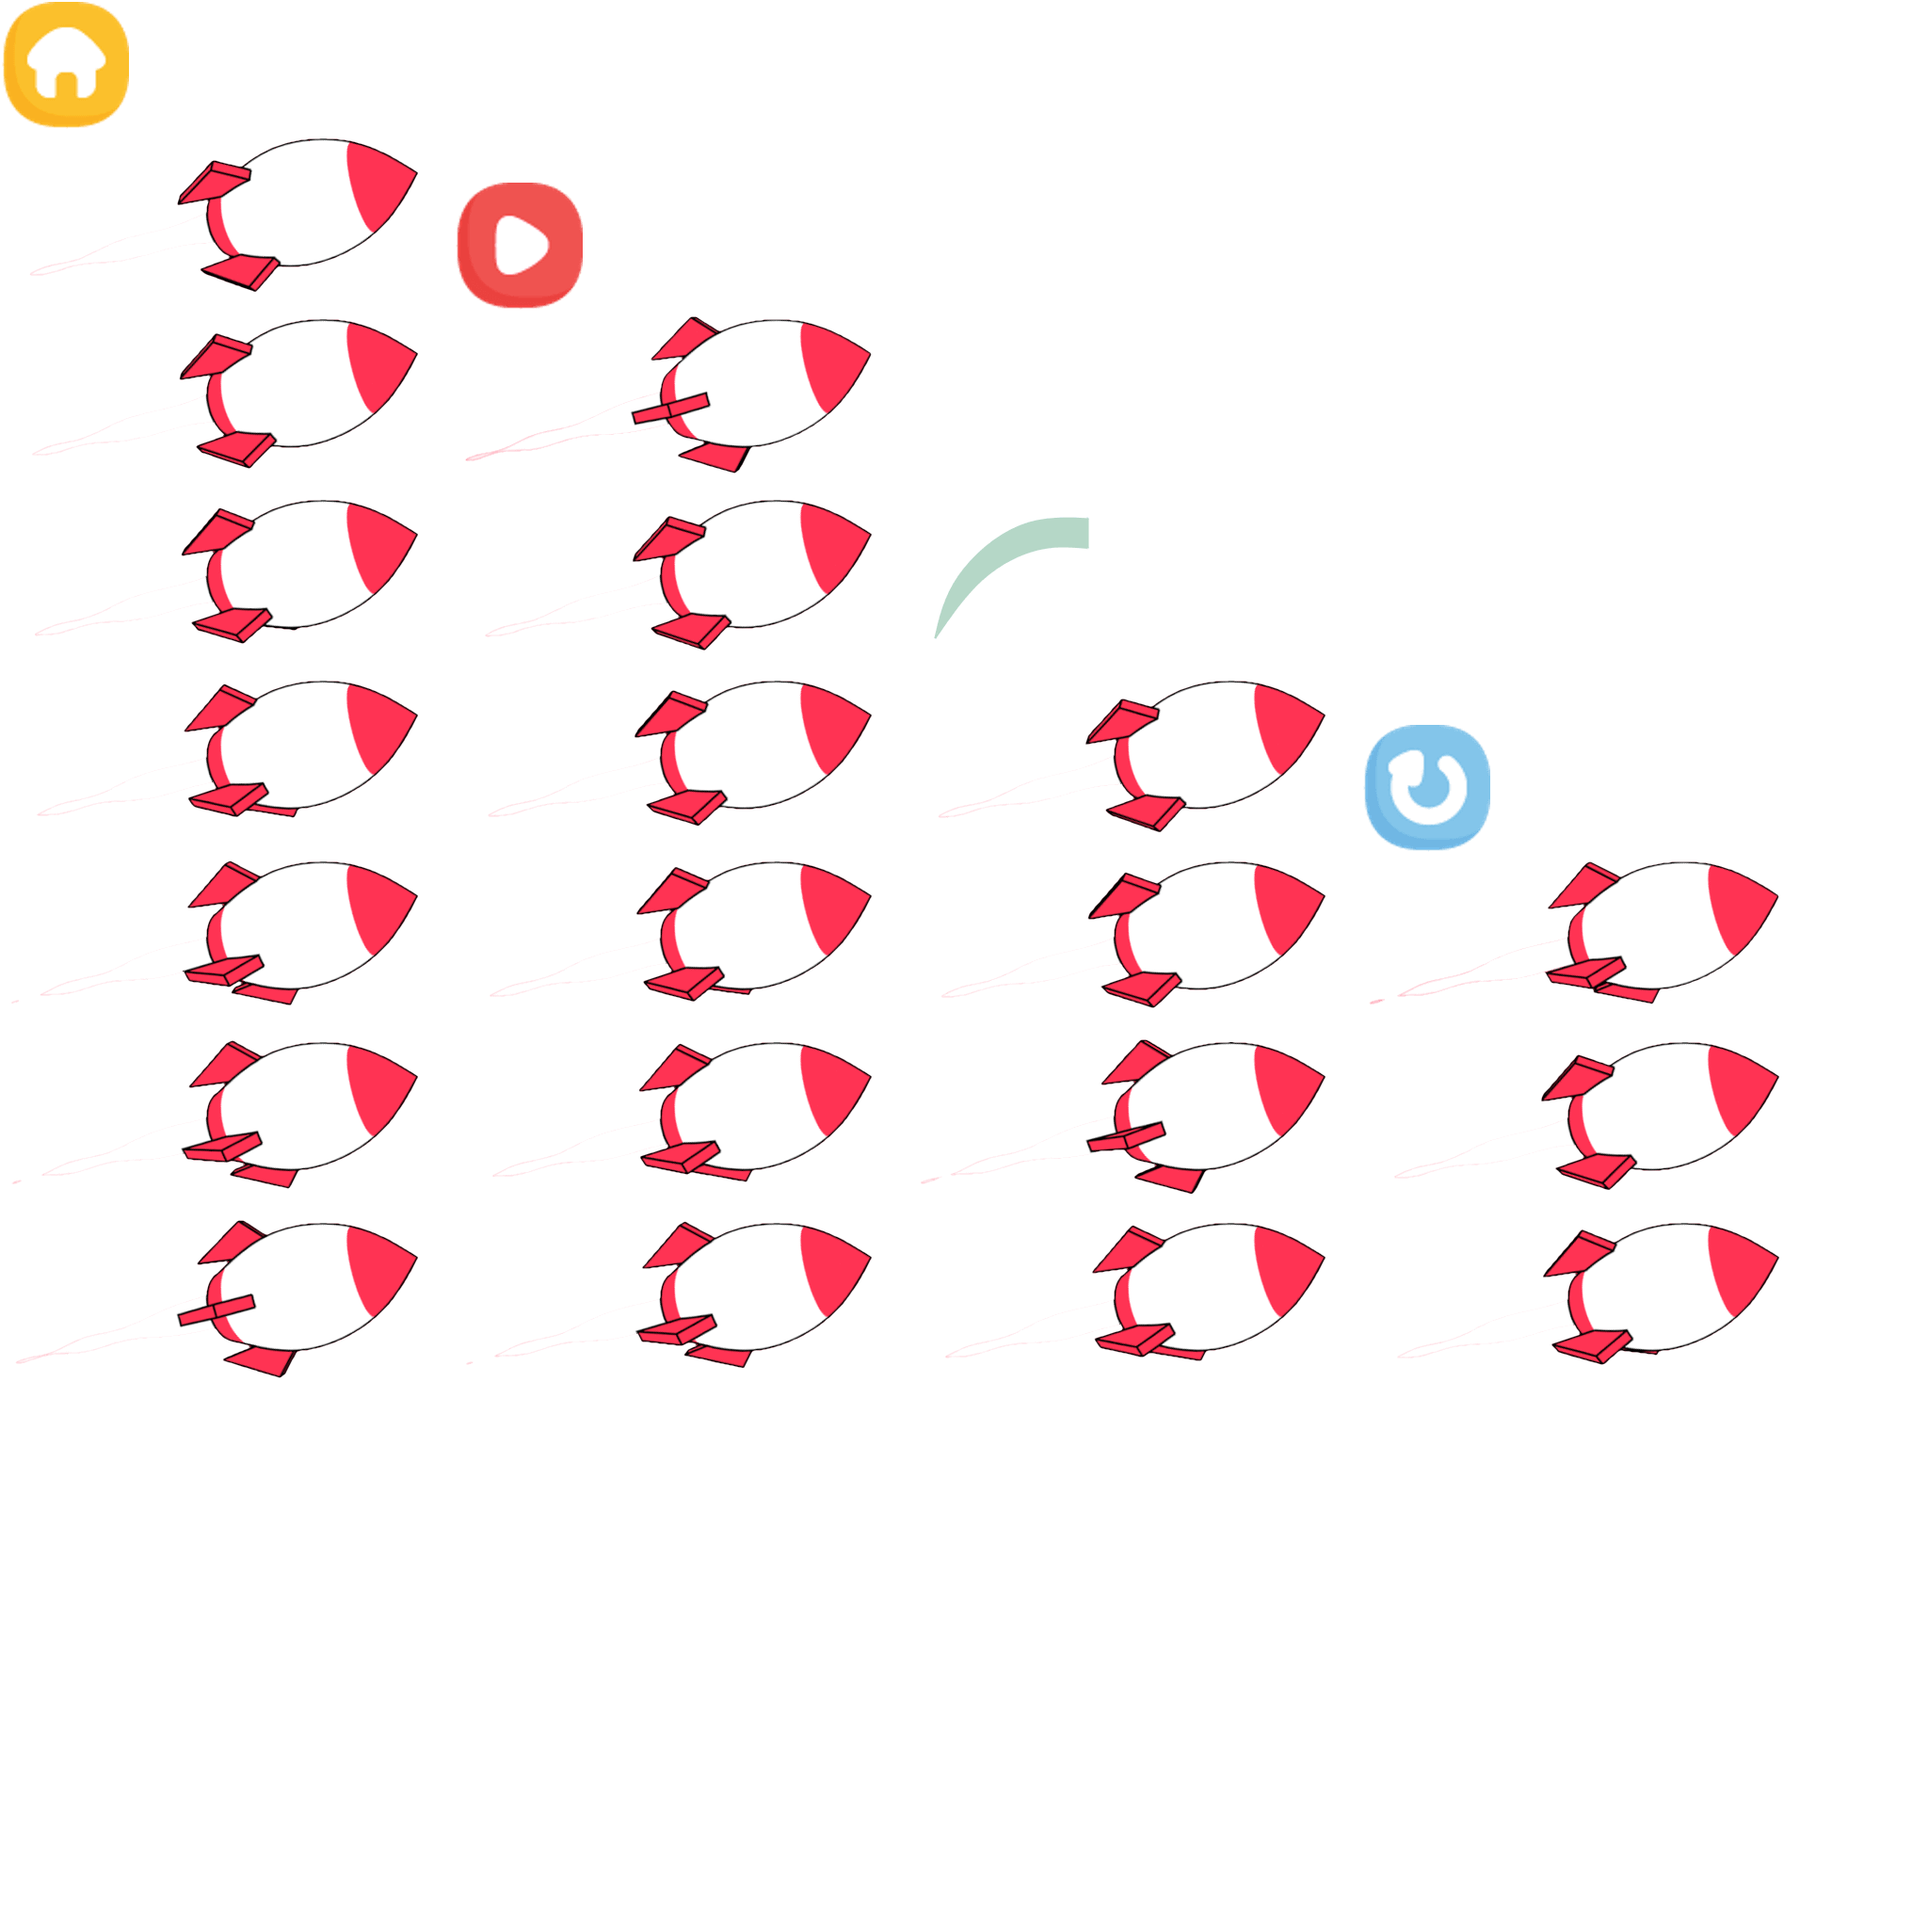
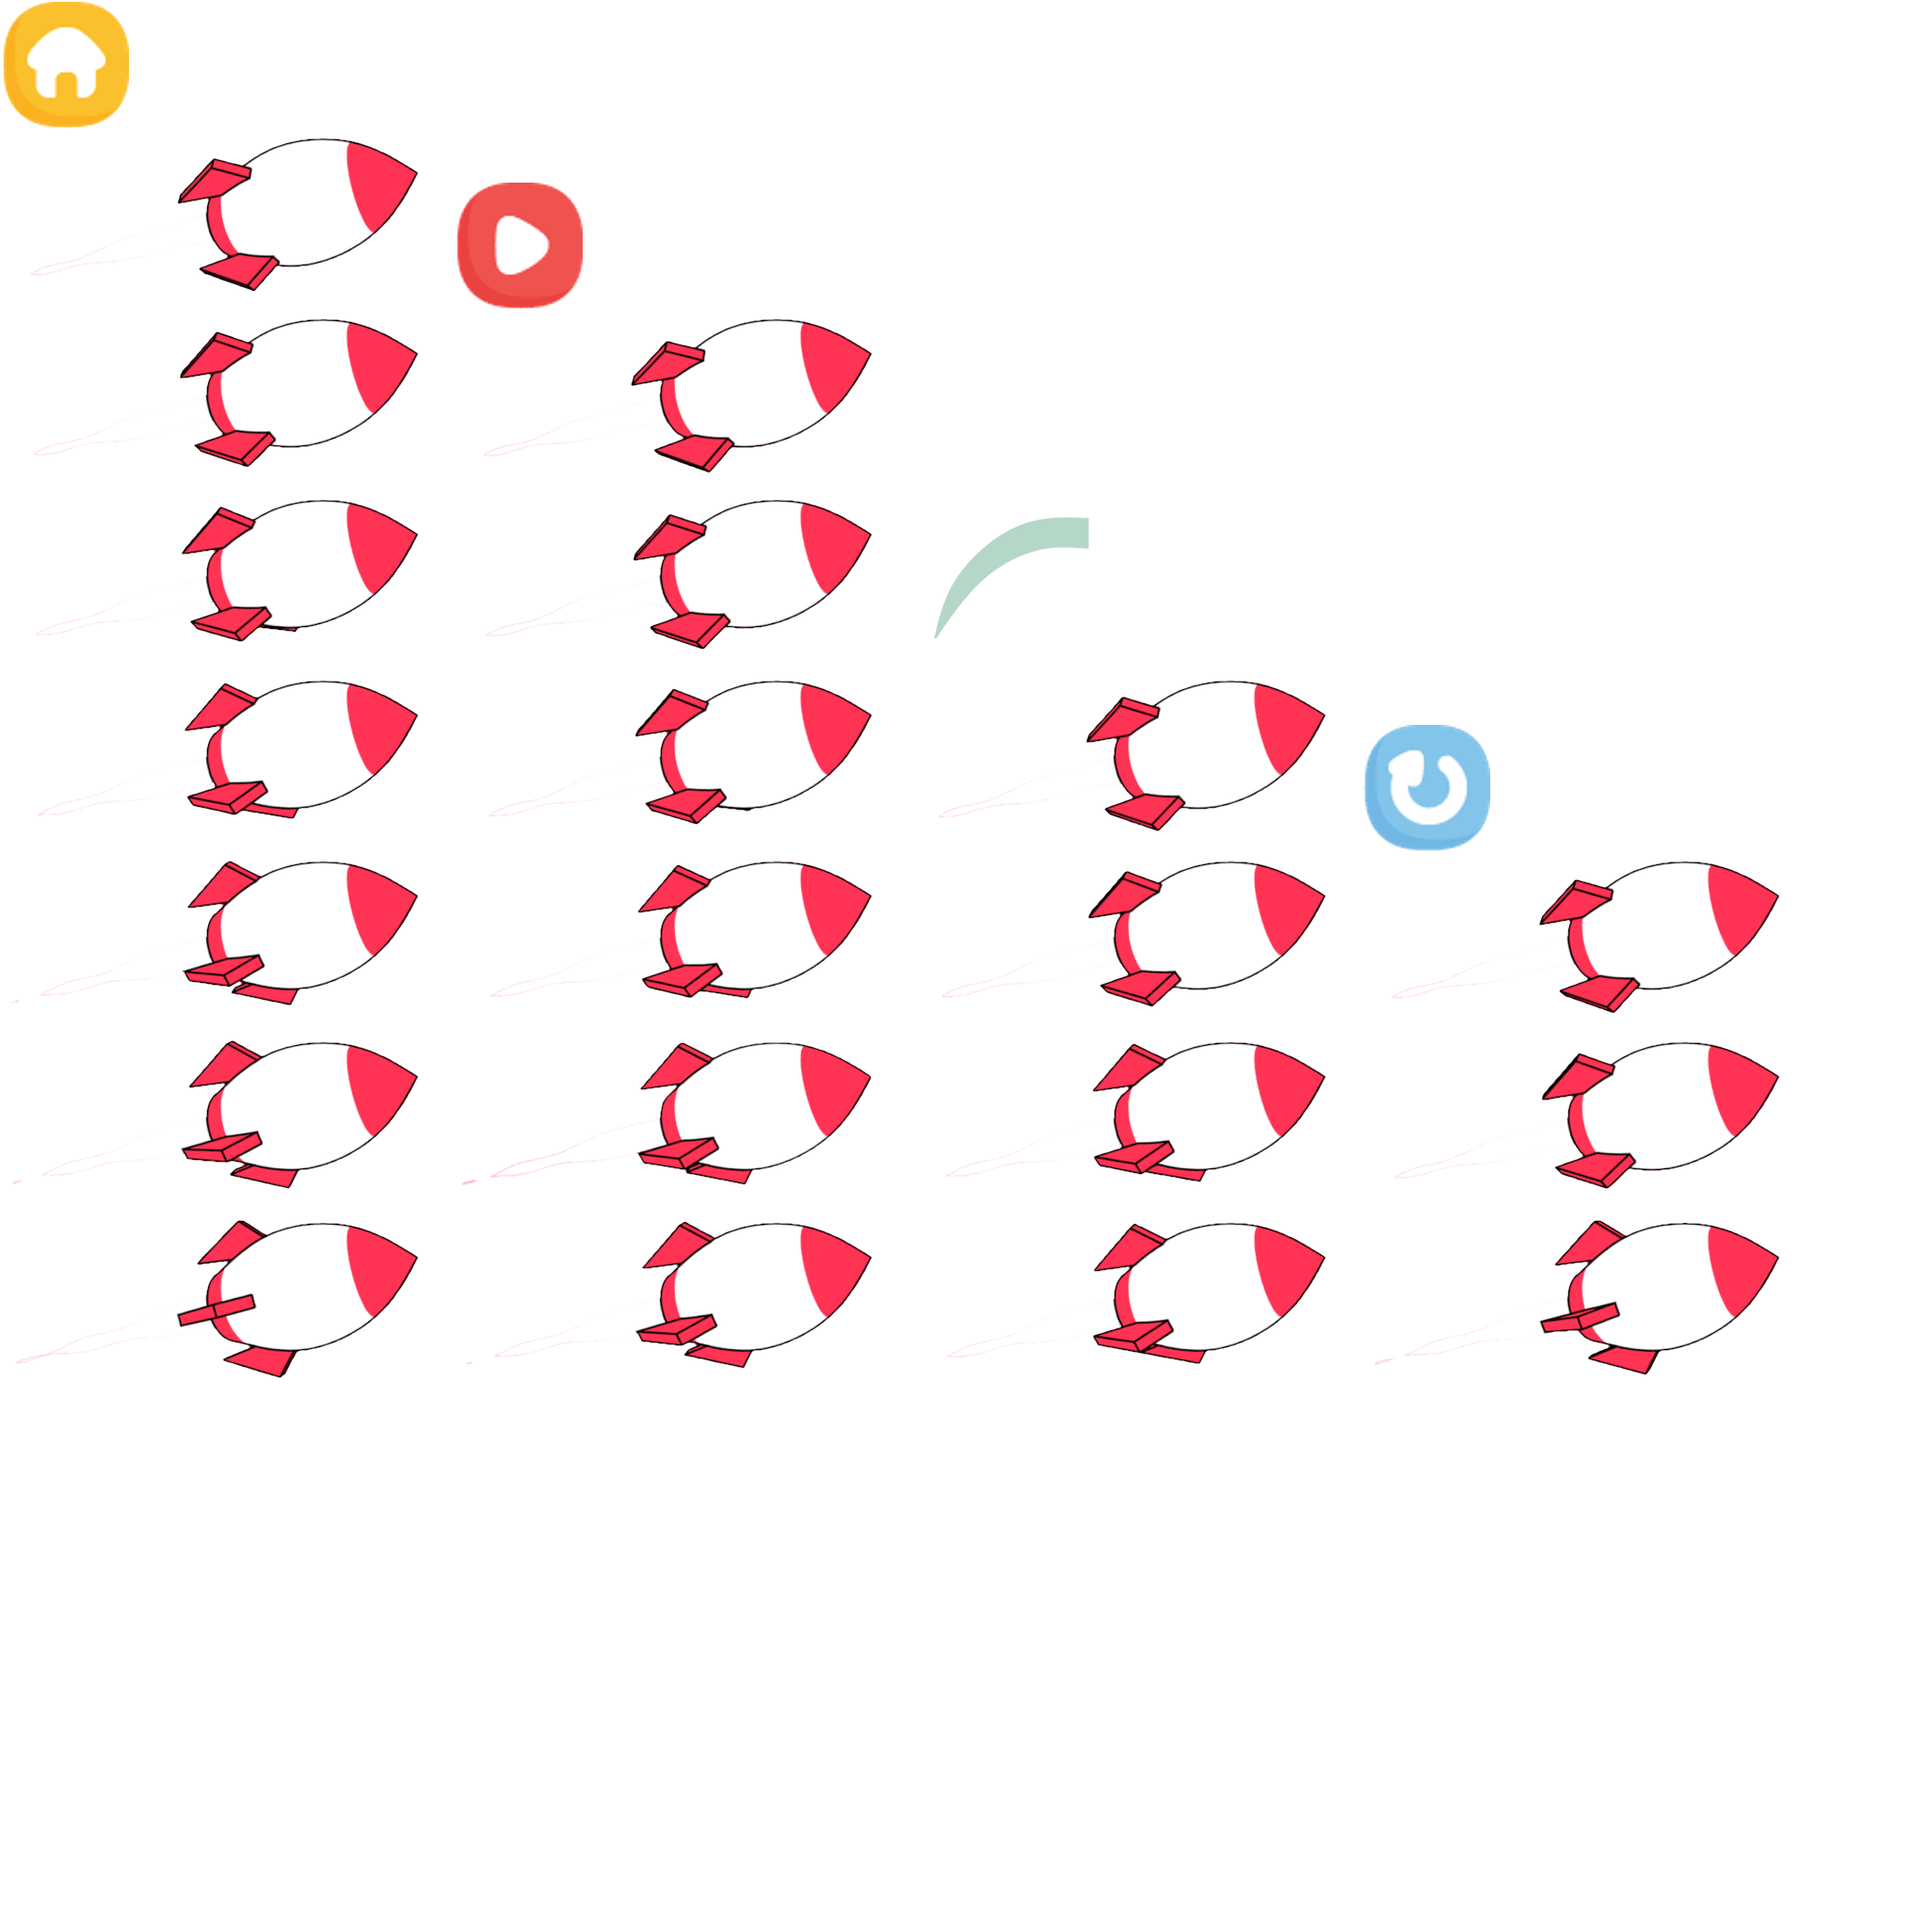
No comments

diff --git a/core/src/uy/com/agm/gamefour/screens/gui/MainMenuScreen.java b/core/src/uy/com/agm/gamefour/screens/gui/MainMenuScreen.java
@@ -63,7 +63,6 @@ public class MainMenuScreen extends GUIAbstractScreen {
     private ImageButton exit;
 
     // TODO BOTONES PROVISORIOS
-    private ImageButton signIn;
     private ImageButton showLeaderboards;
     private ImageButton rateGame;
 
@@ -142,35 +141,11 @@ public class MainMenuScreen extends GUIAbstractScreen {
 
     private void BASURA() {
         // TODO ----------------- DEFINO BOTONES PROVISORIOS
-        ImageButton.ImageButtonStyle styleSignIn = new ImageButton.ImageButtonStyle();
-        styleSignIn.imageDisabled = new TextureRegionDrawable(assetGUI.getSignInDisabled());
-        styleSignIn.imageUp = new TextureRegionDrawable(assetGUI.getSignIn());
-        styleSignIn.imageDown = new TextureRegionDrawable(assetGUI.getSignInPressed());
-
-        ImageButton.ImageButtonStyle styleShowLeaderboards = new ImageButton.ImageButtonStyle();
-        styleShowLeaderboards.imageDisabled = new TextureRegionDrawable(assetGUI.getShowLeaderboardsDisabled());
-        styleShowLeaderboards.imageUp = new TextureRegionDrawable(assetGUI.getShowLeaderboards());
-        styleShowLeaderboards.imageDown = new TextureRegionDrawable(assetGUI.getShowLeaderboardsPressed());
-
-        signIn = new ImageButton(styleSignIn);
-        showLeaderboards = new ImageButton(styleShowLeaderboards);
+        showLeaderboards = new ImageButton(new TextureRegionDrawable(assetGUI.getShowLeaderboards()),
+                new TextureRegionDrawable(assetGUI.getShowLeaderboardsPressed()));
         rateGame = new ImageButton(new TextureRegionDrawable(assetGUI.getRateGame()),
                 new TextureRegionDrawable(assetGUI.getRateGamePressed()));
 
-        // Buttons state
-        boolean isSignedIn = playServices.isSignedIn();
-        signIn.setTouchable(isSignedIn ? Touchable.disabled : Touchable.enabled);
-        signIn.setDisabled(isSignedIn);
-
-        showLeaderboards.setTouchable(isSignedIn ? Touchable.enabled : Touchable.disabled);
-        showLeaderboards.setDisabled(!isSignedIn);
-
-        signIn.addListener(ListenerHelper.runnableListener(new Runnable() {
-            @Override
-            public void run() {
-                signIn();
-            }
-        }));
         showLeaderboards.addListener(ListenerHelper.runnableListener(new Runnable() {
             @Override
             public void run() {
@@ -183,13 +158,11 @@ public class MainMenuScreen extends GUIAbstractScreen {
                 rateGame();
             }
         }));
-        stage.addActor(signIn);
         stage.addActor(showLeaderboards);
         stage.addActor(rateGame);
 
-        signIn.setPosition(0, 0);
-        showLeaderboards.setPosition(100, 0);
-        rateGame.setPosition(200, 0);
+        showLeaderboards.setPosition(0, 0);
+        rateGame.setPosition(100, 0);
         // TODO ----------------- FIN DEFINO BOTONES PROVISORIOS
     }
 
@@ -301,31 +274,18 @@ public class MainMenuScreen extends GUIAbstractScreen {
         audio.addAction(moveBy(-BUTTONS_MOVE_BY_AMOUNT, BUTTONS_MOVE_BY_AMOUNT, BUTTONS_ANIM_DURATION, Interpolation.bounceOut));
     }
 
-    private void signIn() {
-        if (playServices.isWifiConnected()) {
-            playServices.signIn(new Runnable() {
-                @Override
-                public void run() {
-                    signIn.setTouchable(Touchable.disabled);
-                    signIn.setDisabled(true);
-                    showLeaderboards.setTouchable(Touchable.enabled);
-                    showLeaderboards.setDisabled(false);
-                }
-            }, new Runnable() {
-                @Override
-                public void run() {
-                    signIn.setTouchable(Touchable.enabled);
-                    signIn.setDisabled(false);
-                    showLeaderboards.setTouchable(Touchable.disabled);
-                    showLeaderboards.setDisabled(true);
-                }
-            });
-        }
-    }
-
     private void showLeaderboards() {
         if (playServices.isWifiConnected()) {
-            playServices.showLeaderboards();
+            if (playServices.isSignedIn()) {
+                playServices.showLeaderboards();
+            } else {
+                playServices.signIn(new Runnable() {
+                    @Override
+                    public void run() {
+                        playServices.showLeaderboards();
+                    }
+                }, null);
+            }
         }
     }
 

diff --git a/core/src/uy/com/agm/gamefour/assets/gui/AssetGUI.java b/core/src/uy/com/agm/gamefour/assets/gui/AssetGUI.java
@@ -20,12 +20,8 @@ public class AssetGUI {
     private TextureRegion infoPressed;
     private TextureRegion exit;
     private TextureRegion exitPressed;
-    private TextureRegion signIn;
-    private TextureRegion signInPressed;
-    private TextureRegion signInDisabled;
     private TextureRegion showLeaderboards;
     private TextureRegion showLeaderboardsPressed;
-    private TextureRegion showLeaderboardsDisabled;
     private TextureRegion rateGame;
     private TextureRegion rateGamePressed;
     private TextureRegion reload;
@@ -54,12 +50,8 @@ public class AssetGUI {
         infoPressed = atlasGUI.findRegion("infoPressed");
         exit = atlasGUI.findRegion("exit");
         exitPressed = atlasGUI.findRegion("exitPressed");
-        signIn = atlasGUI.findRegion("signIn");
-        signInPressed = atlasGUI.findRegion("signInPressed");
-        signInDisabled = atlasGUI.findRegion("signInDisabled");
         showLeaderboards = atlasGUI.findRegion("showLeaderboards");
         showLeaderboardsPressed = atlasGUI.findRegion("showLeaderboardsPressed");
-        showLeaderboardsDisabled = atlasGUI.findRegion("showLeaderboardsDisabled");
         rateGame = atlasGUI.findRegion("rateGame");
         rateGamePressed = atlasGUI.findRegion("rateGamePressed");
         reload = atlasGUI.findRegion("reload");
@@ -115,28 +107,12 @@ public class AssetGUI {
         return exitPressed;
     }
 
-    public TextureRegion getSignIn() {
-        return signIn;
-    }
-
-    public TextureRegion getSignInPressed() {
-        return signInPressed;
-    }
-
-    public TextureRegion getSignInDisabled() {
-        return signInDisabled;
-    }
-
     public TextureRegion getShowLeaderboards() {
         return showLeaderboards;
     }
 
     public TextureRegion getShowLeaderboardsPressed() {
         return showLeaderboardsPressed;
-    }
-
-    public TextureRegion getShowLeaderboardsDisabled() {
-        return showLeaderboardsDisabled;
     }
 
     public TextureRegion getRateGame() {

diff --git a/android/src/uy/com/agm/gamefour/AndroidLauncher.java b/android/src/uy/com/agm/gamefour/AndroidLauncher.java
@@ -322,21 +322,6 @@ public class AndroidLauncher extends AndroidApplication implements IAdsControlle
 		}
 	}
 
-	private void signInSilently() {
-		googleSignInClient.silentSignIn().addOnCompleteListener(this,
-				new OnCompleteListener<GoogleSignInAccount>() {
-					@Override
-					public void onComplete(@NonNull Task<GoogleSignInAccount> task) {
-						if (task.isSuccessful()) {
-							onConnected(task.getResult());
-						} else {
-							Gdx.app.debug(TAG, "**** signInSilently(): failure " + task.getException());
-							onDisconnected();
-						}
-					}
-				});
-	}
-
 	private void onConnected(GoogleSignInAccount googleSignInAccount) {
 		leaderboardsClient = Games.getLeaderboardsClient(this, googleSignInAccount);
 
@@ -454,14 +439,5 @@ public class AndroidLauncher extends AndroidApplication implements IAdsControlle
 		String message = getString(R.string.status_exception_error, details, status, e);
 
 		Gdx.app.debug(TAG, "**** handleException(): " + message);
-	}
-
-	@Override
-	protected void onResume() {
-		super.onResume();
-
-		// Since the state of the signed in user can change when the activity is not active
-		// it is recommended to try and sign in silently from when the app resumes.
-		signInSilently();
 	}
 }
